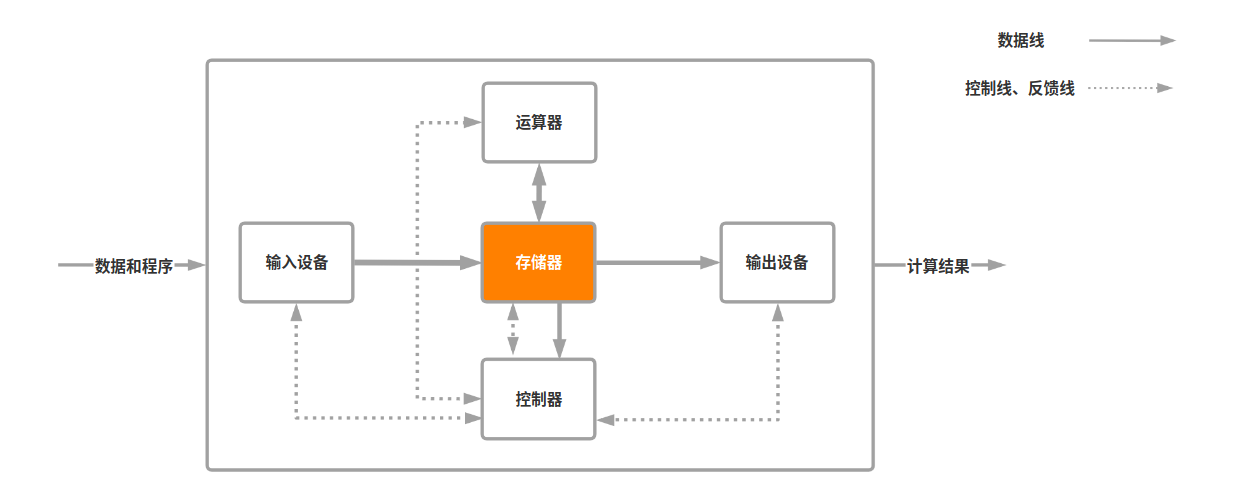
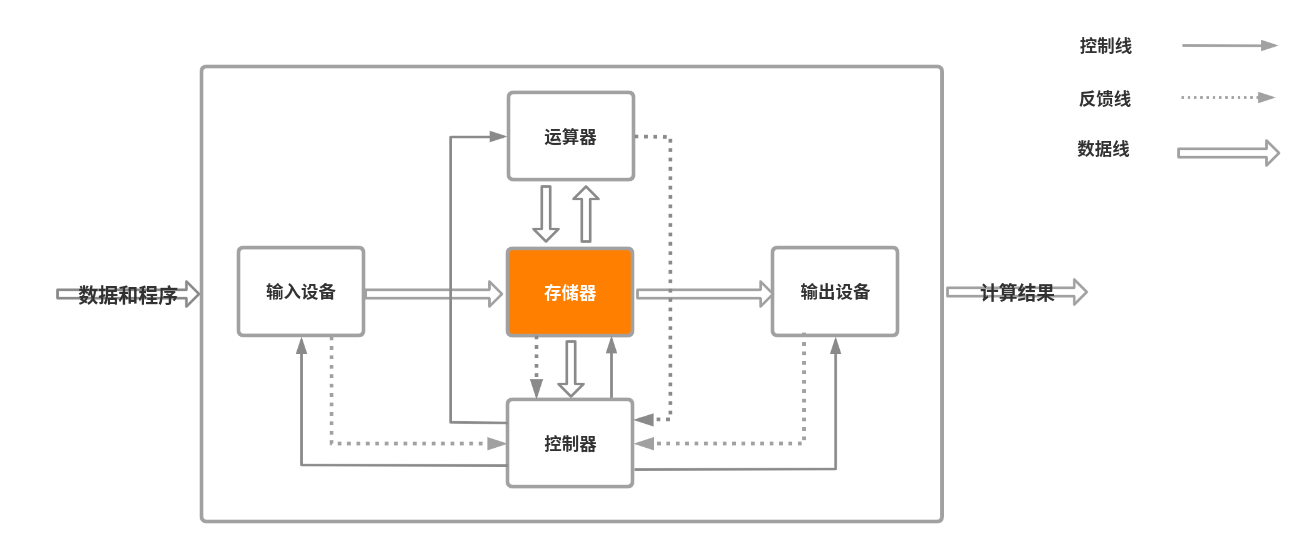
GitBook: [master] 19 pages and 9 assets modified

diff --git a/zong-xian-ji-ben-gai-nian.md b/zong-xian-ji-ben-gai-nian.md
@@ -1,0 +1,43 @@
+# 总线基本概念
+
+## 什么是总线
+
+总线用于连接多个部件进行信息传输，由于多个部件连接总线，所以在某一时刻只允许一个部件向总线发送信息，其他部件都可以同时收到。如果存在几个部件一起发这会导致信号冲突。
+
+总线是由许多**传输线或通路**组成，每条线可一位一位的传输二进制代码，同样多条传输线可并行传输。例如 16 条传输线组成的总线可同时传输 16 为二进制代码。
+
+## 总线的物理实现
+
+![](.gitbook/assets/zong-xian-de-wu-li-shi-xian-.png)
+
+从物理角度，总线由许多导线直接印刷在电路板上，延伸到各个部件。
+
+## 总线特性
+
+### 机械特性
+
+指总线在机械连接方式的一些性能，如插头与插座的标准，形状、尺寸、引脚的个数与排列，接头处的可靠传输
+
+### 电气特性
+
+指总线的每一根传输线上信号的**传递方向**和有效的**电平**范围。例如：地址总线属于单向输出线，数据总线属于双向传输线，他们都定义高电平为 1，低电平为 0，控制总线的每一根都是单向的。
+
+### 功能特性
+
+指总线中每根传输线的功能，例如：地址总线用来指出地址码，数据总线用来传递数据，控制总线发出控制信号
+
+### 时间特性
+
+是指总线中的任一根线在什么时间有效
+
+## 总线性能指标
+
+* **总线宽度**：**数据总线**的根数，用 bit 表示，如 8位、16位、32位、64位（即 8 根、16根、32根、64根）
+* **总线带宽**：总线传输速率，单位时间内总线传输数据的位数，通常用每秒传输信息的字节数衡量，单位可用 MBps（兆字节每秒），例如，总线工作频率 33 MHz，总线宽度为 32 位，则总线带宽 33 \* （32 / 8）= 132 MBps。
+* **时钟同步/异步**：总线上的数据与时钟同步工作的总线称为同步总线，不同步的称为异步总线
+* **总线复用**：一条信号线不同时间传输两种信号
+* **信号线数**：地址总线、数据总线、控制总线三种总线数和
+* **总线控制方式**：突发工作、自动配置、仲裁方式、逻辑方式、计数方式
+* 负载能力
+* 总线宽度是否可扩展
+

diff --git a/zong-xian-fen-lei.md b/zong-xian-fen-lei.md
@@ -1,0 +1,55 @@
+# 总线分类
+
+## 按照数据传输方式
+
+* 并行传输总线
+  * 传输宽度：8、16、32、64位
+* 串行传输总线
+
+## 按照总线的适使用范围
+
+* 计算机总线
+* 测控总线
+* 网络同行总线
+
+## 按照连接部件
+
+### 片内总线
+
+指芯片内部总线，如：CPU 芯片内部，寄存器与寄存器之间、寄存器与逻辑运算单元之间
+
+### 系统总线
+
+* **数据总线**
+
+**传输各部件数据信息，属于双向传输总线**，位数与机器字长、存储字长有关，一般为 8、16、32位，位数表示数据总线宽度，32 位表示一次可以传输 4 字节数据。如果数据总线宽度为 8 位，指令字长 16 位，那么 CPU 在取指阶段必须两次访问主存
+
+* **地址总线**
+
+指出数据总线上的源数据或目的数据在主存单元的地址或 I/O 设备的地址，例如从存储器读取数据，CPU 需要将数据所在单元地址送到地址总线，由 CPU 输出，单向传输，**地址总线位数与存储单元个数有关**，地址总线 20 根，则对应存储单元个数 2^20
+
+* **控制总线**：用来发出各种控制信号的传输线，一般由一个组件发给另一个组件
+
+**常见控制信号**：
+
+| 名称 | 解释 |
+| :--- | :--- |
+| 时钟 | 同步操作 |
+| 复位 | 初始化所有部件 |
+| 总线请求 | 某部件获取总线使用权 |
+| 总线允许 | 部件已获取总线使用权 |
+| 中断请求 | 某部件提出中断请求 |
+| 中断相应 | 中断请求已接收 |
+| 存储器写 | 数据总线数据写到存储器指定地址单元内 |
+| 存储器读 | 指定存储单元度渠道数据总线 |
+| I/O读 | 从指定 I/O 端口将数据读取到数据总线 |
+| I/O写 | 将数据总线上的数据输出到指定 I/O 端口内 |
+| 传输响应 | 数据已被接受，或数据已送到数据总线 |
+
+### 通信总线
+
+计算机系统之间或计算机系统与其他系统之间通信
+
+* 串行通信：指数据在单条 1 位宽的数据传输线上，一位一位发送，例如 1 字节需要分 8 次
+* 并行通信：多条并行 1 位宽的数据传输线同时发送，例如 1 字节由 8 条传输线同时到达
+

diff --git a/ji-suan-ji-xi-tong-gai-shu/ji-suan-ji-ying-jian-de-zhu-yao-ji-shu-zhi-biao.md b/ji-suan-ji-xi-tong-gai-shu/ji-suan-ji-ying-jian-de-zhu-yao-ji-shu-zhi-biao.md
@@ -1,0 +1,52 @@
+# 计算机硬件的主要技术指标
+
+## 机器字长
+
+机器字长是指 CPU 一次能够处理数据的位数，通常和 CPU 的**寄存器位数**有关。字长越长，数的表示范文越大，精度越高。
+
+## 存储器容量
+
+存储器容量包括**主存容量**和**辅存容量**。
+
+### 主存容量
+
+主存容量指的是主存存放二进制代码的总位数，即**存储容量 = 存储单元个数\*存储字长**
+
+![](../.gitbook/assets/cun-chu-qi-.png)
+
+{% hint style="info" %}
+什么是存储单元和存储字长？
+
+了解存储单元先了解**存储元，**存储元就是主存中一个二进制位，要么是 0 要么是 1，而一串存储元组成而二进制串就是**存储字**，这个串的长度就是**存储字长**。一般存储字长为 8 ，即有 8 个二进制位，而这 8 个二进制所在主存的一个空间就是一个**存储单元。**而一般的主存就是有许多的存储单元组成。
+{% endhint %}
+
+上图中 MAR 的位数反映了存储单元的个数，MDR 的位数反映了存储字长。例如，MAR 为 16 位，则可以表示 $$2^{16}=65536$$ 个存储单元，而 MDR 为 32 位，计算总容量为： $$2^{16}*32=2^{21}$$ 位。
+
+现代计算机通常用字节描述容量大小，根据 $$2^{21}$$ 位表示字节为 256KB 大小
+
+### 辅存容量
+
+辅存容量通常用字节表示，例如一个硬盘容量为 80G
+
+## 运算速度
+
+### **CPU 主频**
+
+CPU 主频（时钟信号的频率）就是 CPU 内数字脉冲信号振荡的频率，每个脉冲信号的时间称为时钟周期。Pentium 2GHz 表示时钟信号的频率为 2GHz（1GHz = 10亿次/秒）
+
+### CPI
+
+CPI 表示执行一条指令所需的**时钟周期数**
+
+$$
+CPU 执行时间 =\frac{CPU 时钟周期数}{主频} = \frac{(指令条数*CPI)}{主频}
+$$
+
+### MIPS
+
+每秒执行几百万条指令
+
+### FLOPS
+
+每秒执行多少次浮点运算
+

diff --git a/zong-xian-kong-zhi.md b/zong-xian-kong-zhi.md
@@ -1,0 +1,38 @@
+# 总线控制
+
+## 总线控制
+
+当总线连接多个部件，什么时候由那个部件发送信息，如何给信息传送定时，如何防止信息丢失，如何避免多个部件同时发送等等问题都需要由**总线控制器**统一管理。它主要包括**判优控制**和**通信控制**
+
+## **判优控制**
+
+### 链式查询
+
+假设设备 ****2 需要使用总线，设备 2 就通过仲裁控制线给仲裁控制器发送信号，仲裁控制器就会返回允许使用信号，但是信号会先经过设备1，在到设备 2。如果存在设备 1 和设备 2 都发送了请求使用总线的信号，则最终设备 1 会优先使用。
+
+特点：
+
+* 只需要很少几根线就能按一定优先次序实现总线控制
+* 扩展设备容易
+* 优先级底的设备难以获得请求
+* 对电路故障敏感
+
+![](.gitbook/assets/lian-shi-cha-xun-fang-shi-.png)
+
+
+
+### 计数器定时查询
+
+仲裁控制器分别与设备连接，并且仲裁控制器有一个计数器，假设此时设备 3 需要使用总线，则设备 3 会通过仲裁控制线向仲裁控制器发送请求，仲裁控制器计数器从 0 开始计数，并通过设备地址线向所有设备发送地址信号，当某个请求占用总线的设备地址与计数值一直时，便获得总线控制权，此时停止计数查询，否则计数值增加继续发送
+
+![](.gitbook/assets/ji-shu-qi-ding-shi-cha-xun-.png)
+
+### 独立请求
+
+* 每个设备均有总线独立连接仲裁器
+* 设备可以单独向仲裁器发送和接受请求
+* 同时收到多个信号，仲裁器按照优先级分配使用权
+* 响应速度快、优先次序控制灵活、但控制总线数量多、总线控制复杂
+
+![](.gitbook/assets/du-li-qing-qiu-.png)
+

diff --git a/ji-suan-ji-xi-tong-gai-shu/ji-suan-ji-ge-ying-jian-zu-cheng.md b/ji-suan-ji-xi-tong-gai-shu/ji-suan-ji-ge-ying-jian-zu-cheng.md
@@ -1,4 +1,4 @@
-# 计算机各硬件组成
+# 计算机的基本组成
 
 ## 冯·诺依曼计算机
 
@@ -10,7 +10,7 @@
 * 输入设备：信息转换为机器识别信息
 * 输出设备：机器识别信息转换人们熟悉信息
 
-### 冯·诺依曼计算机特点
+**冯·诺依曼计算机特点**
 
 * 计算机由**运算器、控制器、存储器、输入设备、输出设备**组成
 * 指令和数据存放寄存器内，以地址寻访
@@ -25,7 +25,7 @@
 
 ![](../.gitbook/assets/xian-dai-ji-suan-ji-.png)
 
-现代计算机以**存储器**为中心，通常把运算器和控制器集成，称为**中央处理器（CPU）**。把输入和输出设备简称 **I/O 设备**
+现代计算机以**存储器**为中心，通常把运算器和控制器集成，称为**中央处理器（Central Processing Unit，CPU）**。把输入和输出设备简称 **I/O 设备**
 
 现代计算机组成由三大部分组成：CPU、I/O 设备、主存储器，CPU 和主存储器称为主机，I/O 设备称为外部设备。
 
@@ -34,6 +34,7 @@
 * 算术逻辑单元（Arithmetic Logic Unit，ALU）：完成算术逻辑运算
 * 控制单元（Control Unit，CU）：解释存储器中的指令，并发出操作命令执行指令
 * 主存储器：简称主存或内存，包括**存储体、逻辑部件、控制电路。**
+* IO 设备也受 CU 控制，用来完成相应的输入和输出操作
 
 ## 主存储器
 

diff --git a/SUMMARY.md b/SUMMARY.md
@@ -4,10 +4,20 @@
 
 ## 计算机系统概述
 
-* [计算机的发展](ji-suan-ji-xi-tong-gai-shu/ji-suan-ji-fa-zhan-li-cheng-bei.md)
-* [计算机各硬件组成](ji-suan-ji-xi-tong-gai-shu/ji-suan-ji-ge-ying-jian-zu-cheng.md)
-* [计算机的工作过程](ji-suan-ji-xi-tong-gai-shu/ji-suan-ji-de-gong-zuo-guo-cheng.md)
+* [计算机的发展历史](ji-suan-ji-xi-tong-gai-shu/ji-suan-ji-fa-zhan-li-cheng-bei.md)
 * [计算机层次结构](ji-suan-ji-xi-tong-gai-shu/ji-suan-ji-ceng-ci-jie-gou.md)
+* [计算机的基本组成](ji-suan-ji-xi-tong-gai-shu/ji-suan-ji-ge-ying-jian-zu-cheng.md)
+* [计算机的工作步骤](ji-suan-ji-xi-tong-gai-shu/ji-suan-ji-de-gong-zuo-guo-cheng.md)
+* [计算机硬件的主要技术指标](ji-suan-ji-xi-tong-gai-shu/ji-suan-ji-ying-jian-de-zhu-yao-ji-shu-zhi-biao.md)
+
+## 总线
+
+---
+
+* [总线基本概念](zong-xian-ji-ben-gai-nian.md)
+* [总线分类](zong-xian-fen-lei.md)
+* [总线结构](zong-xian-jie-gou.md)
+* [总线控制](zong-xian-kong-zhi.md)
 
 ## 数据表示与运算
 
@@ -26,12 +36,9 @@
 
 ---
 
-* [Untitled](untitled.md)
 * [地址指令](di-zhi-zhi-ling.md)
 
 ## 中央处理器
-
-## 总线
 
 ## IO 系统
 

diff --git a/zong-xian-jie-gou.md b/zong-xian-jie-gou.md
@@ -1,0 +1,24 @@
+# 总线结构
+
+## 单总线结构
+
+CPU 、主存、I/O 设备都挂在一组总线上，允许之间相互直接交换信息，结构简单，但是容易出现瓶颈
+
+![](.gitbook/assets/dan-zong-xian-jie-gou-.png)
+
+## 双总线结构
+
+一条主存总线，用于 CPU 、主存和通道之间进行数据传送，另一条 I/O 总线用于多个外部设备与通道之间进行数据传送
+
+通道是一个具有特殊功能的处理器，CPU 将一部分功能下放给通道，使其对 I/O 设备具有同一管理的功能，完成外部设备与主存储器之间数据传送
+
+![](.gitbook/assets/shuang-zong-xian-jie-gou-.png)
+
+## 三总线结构
+
+主存总线用于 CPU 与主存之间的传输，I/O 总线供 CPU 与各类 I/O 设备之间传递信息。DMA 总线用于高速 I/O 设备与主存之间直接交换信息。
+
+**在三总线结构中，任一时刻只能使用一种总线，主存总线与 DMA 总线不能同时对主存进行存取，I/O 总线只有在 CPU 执行 I/O 指令时才能用到。**
+
+![](.gitbook/assets/san-zong-xian-jie-gou-.png)
+

diff --git a/ji-suan-ji-xi-tong-gai-shu/ji-suan-ji-de-gong-zuo-guo-cheng.md b/ji-suan-ji-xi-tong-gai-shu/ji-suan-ji-de-gong-zuo-guo-cheng.md
@@ -1,4 +1,4 @@
-# 计算机的工作过程
+# 计算机的工作步骤
 
 计算机的工作过程分为以下三个步骤：
 

diff --git a/ji-suan-ji-xi-tong-gai-shu/ji-suan-ji-fa-zhan-li-cheng-bei.md b/ji-suan-ji-xi-tong-gai-shu/ji-suan-ji-fa-zhan-li-cheng-bei.md
@@ -1,4 +1,4 @@
-# 计算机的发展
+# 计算机的发展历史
 
 ## 第一代电子管计算机（1945-1955）
 
